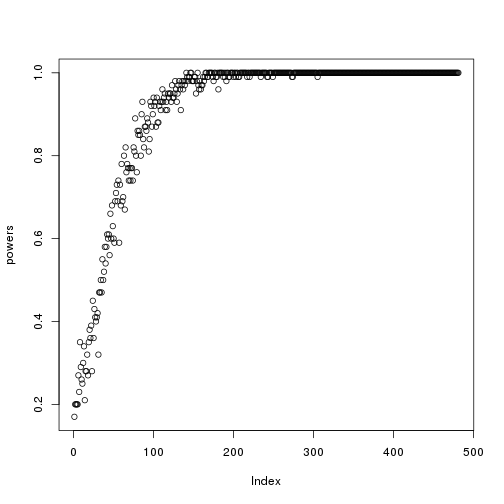
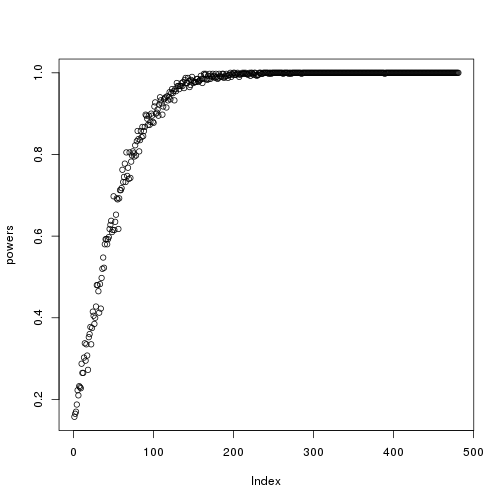
Zmniejszony błąd oceny mocy testu.

diff --git a/MIMUW_2015/HomeWorks/Fifth/bartosz_piotrowski_5.html b/MIMUW_2015/HomeWorks/Fifth/bartosz_piotrowski_5.html
@@ -215,11 +215,11 @@ hr {
 </head>
 
 <body>
-<p>Tworzymy symulację następującej postaci: dla każdej liczby pacjentów n z przedziału [20:500] tworzymy 100 modeli z efektami zagnieżdżonymi (takimi, jak każe treść zadania) i na tej podstawie liczymy moc testu dla efektów zagnieżdżonych. </p>
+<p>Tworzymy symulację następującej postaci: dla każdej liczby pacjentów n z przedziału [20:500] tworzymy 400 modeli z efektami zagnieżdżonymi (takimi, jak każe treść zadania) i na tej podstawie liczymy moc testu dla efektów zagnieżdżonych. </p>
 
 <pre><code class="r">N1 &lt;- 20
 N2 &lt;- 500
-M &lt;- 100
+M &lt;- 400
 
 powers &lt;- sapply(N1:N2, function(n) {
   pvals &lt;- replicate(M, {
@@ -240,15 +240,16 @@ powers &lt;- sapply(N1:N2, function(n) {
 <pre><code class="r">plot(powers)
 </code></pre>
 
[1 lines of base64/hex data omitted]
-Widać wyraźnie, że moc testu dla n od 20 do ok. 100 rośnie, po czym dla n &gt; 100 widać wyraźnie, że prawdopodobieństwo, że test poprawnie wykryje efekt zagnieżdżony stabilizuje się na 1.</p>
[1 lines of base64/hex data omitted]
+
+<p>Widać wyraźnie, że moc testu dla n od 20 do ok. 100 rośnie, po czym dla n &gt; 100 widać wyraźnie, że prawdopodobieństwo, że test poprawnie wykryje efekt zagnieżdżony stabilizuje się na 1.</p>
 
 <p>Sprawdźmy, dla jakiej najmniejszej liczby pacjentów moc test jest nie mniejsza, niż 0.8:</p>
 
 <pre><code class="r">min(which(powers &gt;= 0.8))
 </code></pre>
 
-<pre><code>## [1] 63
+<pre><code>## [1] 66
 </code></pre>
 
 </body>
